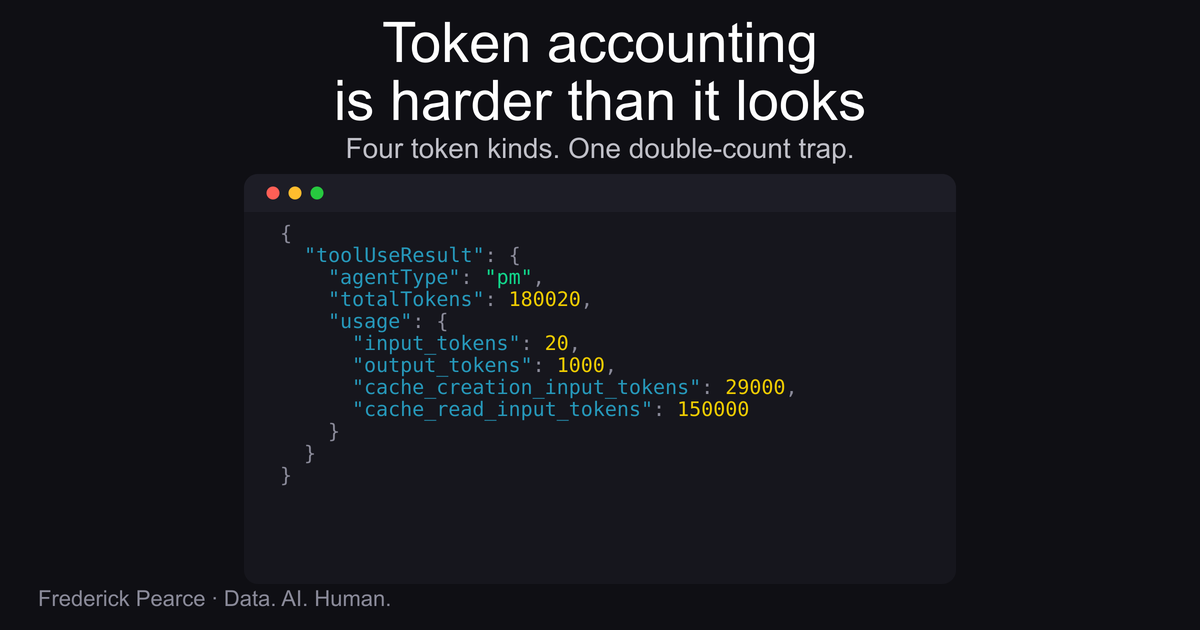
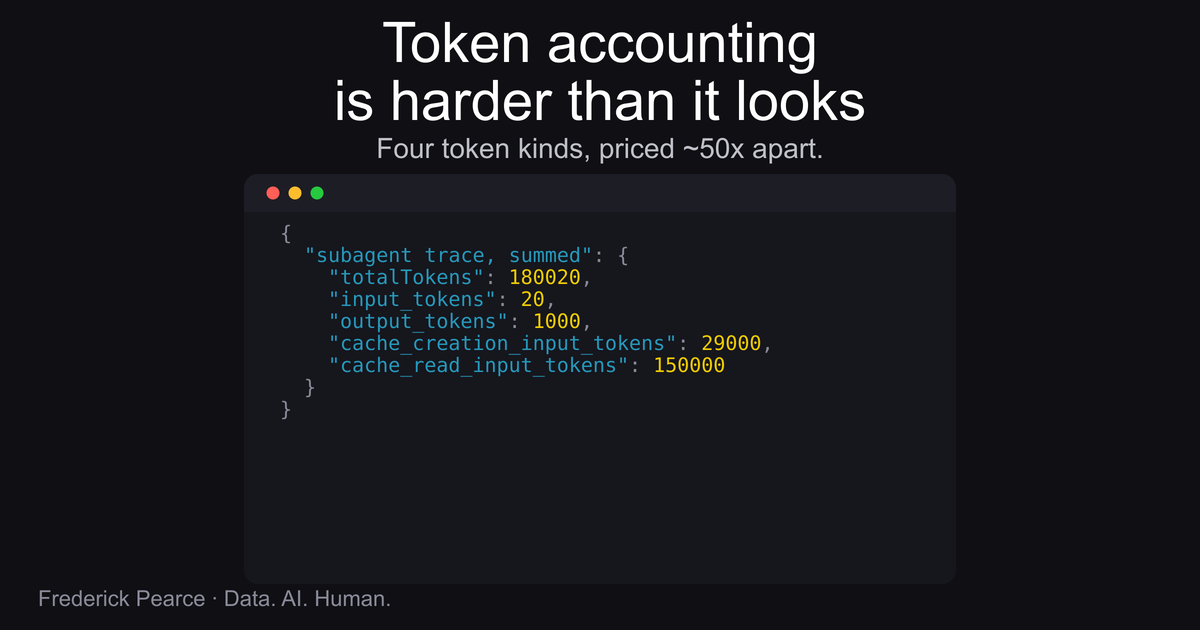
fix(social): correct residual double-count framing in Part 4 OG card and specs
Finishes the token-accounting errata (companion to #144/#145/#146). Three
surfaces still carried the retired "double-count" claim:

- Part 4 OG card (live og_image): subhead reframed to "Four token kinds,
  priced ~50x apart."; JSON sample relabeled as a "subagent trace, summed"
  aggregate instead of a mislabeled toolUseResult rollup; slug corrected to
  2026-06-24. Re-rendered svg/png/@2x.
- token-accounting-mechanics.md: inverted "double-counts" bullet and the
  stale "trace sums to the rollup" invariant corrected, with a dated note.
- series-outline.md: Part 3/4 outline entries reframed to the rollup
  undercount (single-turn snapshot, median ~5.8x undercount).

Reference docs, fixtures, and published posts were already correct.

Changed region(s): [[0.2467, 0.3921, 0.6783, 0.6635], [0.2775, 0.2111, 0.7092, 0.2714]]

diff --git a/.claude/specs/series-outline.md b/.claude/specs/series-outline.md
@@ -36,7 +36,7 @@
 
 ## Post 3 — Inside the subagent trace file
 
-**Scope.** Part 2 closed with a single `jq` snippet whose output carries a field called `agentId` — and promised that value is "the literal handle that takes you to the subagent's full trace file." This post cashes that promise. It opens the file at `~/.claude/projects/<slug>/<session-uuid>/subagents/agent-<agentId>.jsonl`, reads it against what the parent already reported, and names the structural differences: `isSidechain: true` as the canonical discriminator, why `sessionId` is NOT shared between parent and subagent (each subagent invocation gets its own — the parent's session UUID appears only as a directory name), the attribution field family (`attributionAgent`, `promptId`, `sourceToolAssistantUUID`) and its strict per-line-type presence pattern, and the single most important thing to understand about this format: the parent's `toolUseResult` envelope is a rollup summary; the trace file is the actual evidence. The post also names the restricted type set in Claude Code traces (no `file-history-snapshot`, no `system`, no `permission-mode` inside subagent files) and flags the open verification gap for Agent SDK nested invocations. Token double-counting is introduced briefly here as a necessary gotcha but deferred to Post 4 for the full treatment. Closes with a `jq` snippet that opens one subagent file and counts its turns.
+**Scope.** Part 2 closed with a single `jq` snippet whose output carries a field called `agentId` — and promised that value is "the literal handle that takes you to the subagent's full trace file." This post cashes that promise. It opens the file at `~/.claude/projects/<slug>/<session-uuid>/subagents/agent-<agentId>.jsonl`, reads it against what the parent already reported, and names the structural differences: `isSidechain: true` as the canonical discriminator, why `sessionId` is NOT shared between parent and subagent (each subagent invocation gets its own — the parent's session UUID appears only as a directory name), the attribution field family (`attributionAgent`, `promptId`, `sourceToolAssistantUUID`) and its strict per-line-type presence pattern, and the single most important thing to understand about this format: the parent's `toolUseResult` envelope is a rollup summary; the trace file is the actual evidence. The post also names the restricted type set in Claude Code traces (no `file-history-snapshot`, no `system`, no `permission-mode` inside subagent files) and flags the open verification gap for Agent SDK nested invocations. The rollup-vs-trace gotcha is introduced briefly here as a necessary gotcha (the parent's `toolUseResult.usage` is a single-turn snapshot, not the run total) but deferred to Post 4 for the full treatment. Closes with a `jq` snippet that opens one subagent file and counts its turns.
 
 The nesting caveat is worth including because Claude Code restricts subagents from invoking further subagents while the Agent SDK may not — a parser that assumes flat layout because it's never seen nested invocations is fragile. Name the gap without overstating it.
 
@@ -48,11 +48,11 @@ The nesting caveat is worth including because Claude Code restricts subagents fr
 
 ## Post 4 — Token accounting is harder than it looks
 
-**Scope.** The data is all there. The arithmetic is where it gets subtle. This post works through the four token kinds (`input_tokens`, `output_tokens`, `cache_creation_input_tokens`, `cache_read_input_tokens`) and why treating them as interchangeable produces wrong dollar figures. Then it introduces `service_tier` and per-model price variance as the second and third confounders. The main event is the double-count hazard: the subagent's tokens appear on each interior `assistant` line inside the trace file AND as a rolled-up `toolUseResult.usage` on the parent's user line — sum both and you've counted the same work twice. The post lays out the three aggregation patterns from `subagent-traces.md` in prose (cheap total from parent only, full breakdown with trace files, just the subagent's cost) and names which to use for which question. The cache efficiency angle belongs here and strengthens the post: `cache_read_input_tokens` vs. `cache_creation_input_tokens` ratios are a direct read from the JSONL and tell you whether long sessions are amortizing their context cost. Include it — it's concrete, it's grounded in fields already introduced in Part 2, and it adds a useful frame beyond "here's why your dollar figure is wrong."
+**Scope.** The data is all there. The arithmetic is where it gets subtle. This post works through the four token kinds (`input_tokens`, `output_tokens`, `cache_creation_input_tokens`, `cache_read_input_tokens`) and why treating them as interchangeable produces wrong dollar figures. Then it introduces `service_tier` and per-model price variance as the second and third confounders. The main event is the rollup undercount hazard: the parent's `toolUseResult.usage` is a single assistant turn's snapshot (the subagent's last turn), not a run total, so reading it as the subagent's cost undercounts processed tokens by a median of ~5.8×. A subagent's real total comes from summing its trace turn by turn, never from the rollup. The post lays out the aggregation guidance from `subagent-traces.md` in prose (quick context-size read from the parent rollup, real processed tokens from the trace sum, and never substituting one for the other) and names which source answers which question. The cache efficiency angle belongs here and strengthens the post: `cache_read_input_tokens` vs. `cache_creation_input_tokens` ratios are a direct read from the JSONL and tell you whether long sessions are amortizing their context cost. Include it — it's concrete, it's grounded in fields already introduced in Part 2, and it adds a useful frame beyond "here's why your dollar figure is wrong."
 
 Part 1 introduced the "naive summing produces wrong dollar figures" caveat briefly. This post is where the caveat gets a complete treatment. That's the right sequencing: Part 1 named the problem, Post 4 solves it.
 
-**Audience hook.** Most people who've built any kind of session cost tracker have made at least one of these mistakes. The double-count trap in particular is subtle enough that it can persist undetected — the inflated totals don't look obviously wrong. Opening with "here's a number you've probably computed wrong" lands with practitioners who've actually tried to do this.
+**Audience hook.** Most people who've built any kind of session cost tracker have made at least one of these mistakes. The rollup undercount in particular is subtle enough that it can persist undetected — a single-turn snapshot lands close enough to a plausible number that it doesn't look obviously wrong. Opening with "here's a number you've probably computed wrong" lands with practitioners who've actually tried to do this.
 
 **Bridge.** Once you understand what a session costs and where the tokens actually went, the natural next question is: what were all those tool calls doing? Token accounting is the "how much" question; tool-use analysis is the "doing what" question. Part 5 is the full tool-use walkthrough.
 

diff --git a/.claude/specs/research/token-accounting-mechanics.md b/.claude/specs/research/token-accounting-mechanics.md
@@ -4,6 +4,8 @@
 
 **Status:** Research / analysis. May graduate into `reference/` (data-dictionary § Usage and token accounting) once Part 4 formalizes it.
 
+> **CORRECTION (2026-07-19).** An earlier version of this doc described the parent rollup as **double-counting** the subagent's tokens (the same work summed in both the trace and the rollup, ~2× inflation). That was backwards. The parent's `toolUseResult.usage` is a **single assistant turn's snapshot** (the subagent's last turn), not a run total, so reading it in place of summing the trace **under**counts processed tokens by a median of ~5.8×. The paired fixtures were re-cut to match ([#144](https://github.com/frederick-douglas-pearce/claude-code-sessions/issues/144)): the rollup is now `3/300/1500/27000` = 28,803 (turn 8 only), while the trace sums to `20/1000/29000/150000` = 180,020. The canonical treatment is [`reference/subagent-traces.md` § Token accounting](https://github.com/frederick-douglas-pearce/claude-code-sessions/blob/main/reference/subagent-traces.md#token-accounting). The two bullets below have been corrected in place.
+
 **Provenance:**
 
 - **Documented mechanics** — Anthropic prompt-caching docs (via the `claude-api` skill, cached 2026-05-26) + [`reference/data-dictionary.md`](https://github.com/frederick-douglas-pearce/claude-code-sessions/blob/main/reference/data-dictionary.md) § Usage and token accounting.
@@ -76,7 +78,7 @@ Ranges are wide — `cache_read` per run spans ~41K (p10) to ~2.1M (p90) — bec
 
 ### Anatomy fixtures ([#103](https://github.com/frederick-douglas-pearce/claude-code-sessions/issues/103))
 
-The post-#98/#99 anatomy fixture used `input 6,000 / output 2,000 / cache_creation 12,000 / cache_read 16,000` — off from reality by **~8–160× per category**, and with `cache_read` *smaller* than `cache_creation` (backwards). The realistic 8-turn model (scaled to the fixture's 7-tool-call run) preserves the real shape: tiny `input`, front-loaded `cache_creation`, growing-and-dominant `cache_read`. Proposed numbers tracked in #103; whatever lands must still satisfy the #98/#99 invariants (trace per-turn `usage` sums to the parent rollup; `totalTokens` = sum of the four fields).
+The post-#98/#99 anatomy fixture used `input 6,000 / output 2,000 / cache_creation 12,000 / cache_read 16,000` — off from reality by **~8–160× per category**, and with `cache_read` *smaller* than `cache_creation` (backwards). The realistic 8-turn model (scaled to the fixture's 7-tool-call run) preserves the real shape: tiny `input`, front-loaded `cache_creation`, growing-and-dominant `cache_read`. Proposed numbers tracked in #103; whatever lands must satisfy the corrected invariants (the parent rollup equals the subagent's **final** turn, not the trace sum; `totalTokens` = sum of that turn's four fields). The original #98/#99 "trace sums to the rollup" invariant embodied the double-count bug and was retired when the fixtures were re-cut under #144.
 
 ### Part 4 — "Token accounting is harder than it looks"
 
@@ -84,7 +86,7 @@ This is the empirical backbone for Part 4. Data-supported headline points:
 
 - A run's reported `input_tokens` can be **~20** while it processes **hundreds of thousands** of tokens — almost all cache reads.
 - **Cost ≠ token count:** the four kinds price at 1× / 1.25× / 0.1× / output-rate. A cache-read-dominated run is cheap per token.
-- The parent rollup **double-counts** the subagent's tokens (see Part 3 / [`reference/subagent-traces.md`](https://github.com/frederick-douglas-pearce/claude-code-sessions/blob/main/reference/subagent-traces.md) § Token accounting); reconciling session cost means picking one source, not summing both.
+- The parent rollup is a **single-turn snapshot**, not the run total, so reading it as the subagent's cost **under**counts by a median of ~5.8× (see Part 3 / [`reference/subagent-traces.md`](https://github.com/frederick-douglas-pearce/claude-code-sessions/blob/main/reference/subagent-traces.md) § Token accounting); a subagent's real processed tokens come from summing its trace turn by turn, never from the rollup.
 
 ---
 
